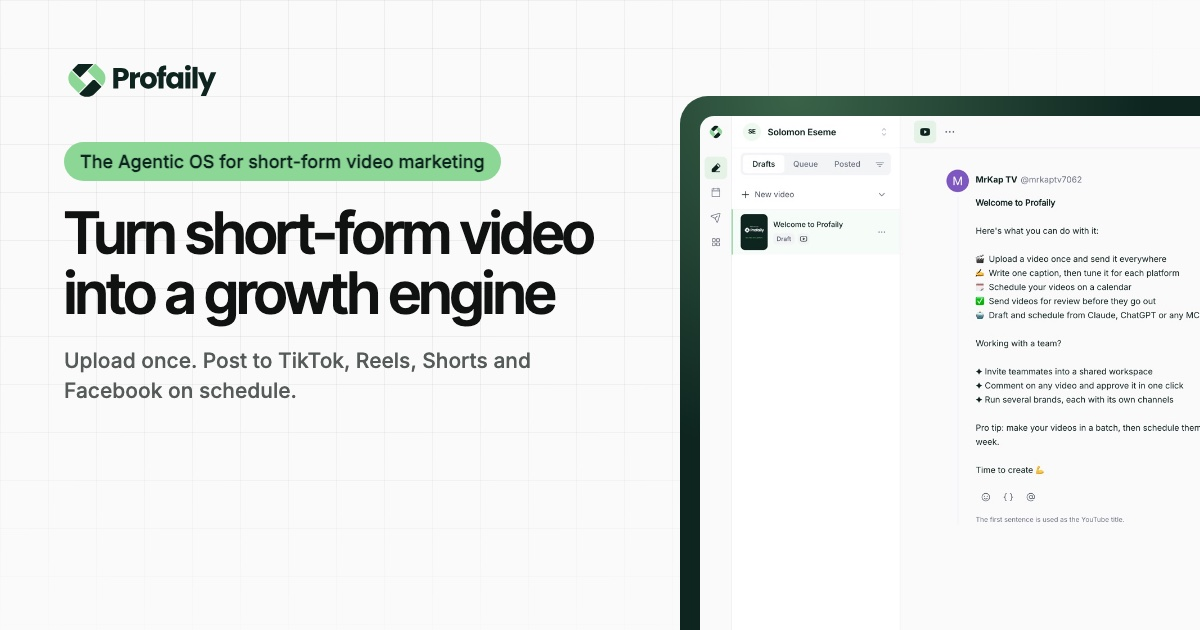
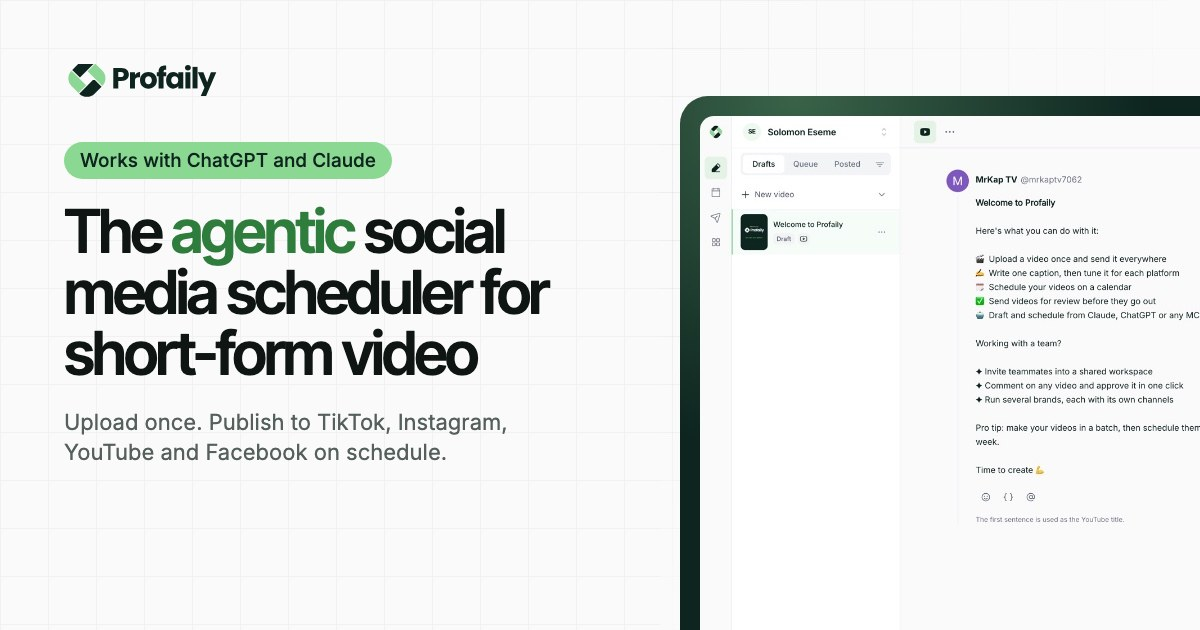
Home: agentic scheduler heading and SEO; help names Facebook
- Home h1 is now "The agentic social media scheduler for short-form video";
  the line under it names platforms (Instagram, TikTok, YouTube, Facebook)
- Home <title>, meta description and share tags carry the new keyword
- og-default.jpg rebuilt with the new heading (same app screenshot)
- Five help lines that listed three platforms now include Facebook
  (sign-in, connect, plans, failed posts, account deletion)

Changed region(s): [[0.0308, 0.3317, 0.4933, 0.6333], [0.0617, 0.6333, 0.4317, 0.754], [0.0617, 0.2111, 0.4317, 0.3016]]

diff --git a/components/sections/home/HomeHero.tsx b/components/sections/home/HomeHero.tsx
@@ -7,12 +7,12 @@ export function HomeHero() {
     <header className="hero has-grid" data-hero>
       <div className="wrap">
         <span className="pill">Works with ChatGPT and Claude</span>
-        <h1>Turn short‑form video into a <span className="hl">growth engine</span> for your business</h1>
+        <h1>The <span className="hl">agentic</span> social media scheduler for short‑form video</h1>
         <p className="sub">
           {liveCopy({
-            both: "The AI-powered, collaborative short-form video scheduling platform for Instagram Reels, TikTok, YouTube Shorts, and Facebook Reels.",
-            instagram: "The AI-powered, collaborative short-form video scheduling platform for TikTok, Instagram Reels and YouTube Shorts.",
-            none: "The AI-powered, collaborative short-form video scheduling platform for TikTok and YouTube Shorts.",
+            both: "The AI-powered, collaborative short-form video scheduling platform for Instagram, TikTok, YouTube, and Facebook.",
+            instagram: "The AI-powered, collaborative short-form video scheduling platform for Instagram, TikTok, and YouTube.",
+            none: "The AI-powered, collaborative short-form video scheduling platform for TikTok and YouTube.",
           })}
         </p>
         <OAuthButtons />

diff --git a/content/home.tsx b/content/home.tsx
@@ -2,9 +2,9 @@ import type { FaqItem } from "@/components/sections/shared/Faq";
 import { liveCopy, channelsReels } from "@/content/channels";
 
 export const homeMeta = {
-  title: "Profaily | Turn short-form video into a growth engine for your business",
+  title: "Profaily | The agentic social media scheduler for short-form video",
   description:
-    `Upload a video once and Profaily posts it to ${channelsReels}, each in its own format, on a schedule. Team approvals, bulk import and AI scheduling from Claude or ChatGPT.`,
+    `The agentic social media scheduler for short-form video. Upload once, publish to ${channelsReels}, or schedule it from ChatGPT or Claude.`,
   path: "/",
 };
 

diff --git a/help/start-free-trial.md b/help/start-free-trial.md
@@ -20,13 +20,13 @@ faq:
 ## Start the trial {#start}
 
 1. Go to [useprofaily.com](/) and tap **Sign up**.
-2. Sign in with Google, TikTok or Instagram.
+2. Sign in with Google, TikTok, Instagram or Facebook.
 3. Choose **Creator** or **Business** and add your card.
 4. Connect your accounts and post your first video.
 
 ![The Profaily sign-in page, with Continue with Google, and TikTok and Instagram buttons](/assets/help/start-free-trial/sign-in.jpg)
 
-Once you're in, Profaily asks you to connect your first account. Tap **Connect** next to TikTok, Instagram or YouTube. You can add the rest later.
+Once you're in, Profaily asks you to connect your first account. Tap **Connect** next to TikTok, Instagram, YouTube or Facebook. You can add the rest later.
 
 ![A new brand's Channels panel, with a Connect button for TikTok, Instagram and YouTube](/assets/help/start-free-trial/connect-first.jpg)
 

diff --git a/help/why-a-post-failed.md b/help/why-a-post-failed.md
@@ -15,7 +15,7 @@ faq:
     a: "Only when the problem needs you, such as a reconnect or a video the platform won't accept. When a platform has a temporary problem, Profaily retries on its own."
 ---
 
-A post fails when TikTok, Instagram or YouTube refuses it. Profaily shows you the platform's own reason, so you know what to change.
+A post fails when TikTok, Instagram, YouTube or Facebook refuses it. Profaily shows you the platform's own reason, so you know what to change.
 
 If you're watching when it happens, the **Publishing** window marks the platform **Failed** while the others carry on:
 

diff --git a/help/delete-your-account.md b/help/delete-your-account.md
@@ -23,7 +23,7 @@ Deleting your account removes everything at once, and it **can't be undone**.
 - Your uploaded videos are deleted from storage.
 - Your account, posts and sign-in are removed.
 
-Videos already posted stay on TikTok, Instagram and YouTube. Delete those on each platform if you want them gone.
+Videos already posted stay on TikTok, Instagram, YouTube and Facebook. Delete those on each platform if you want them gone.
 
 ## Delete it {#delete}
 

diff --git a/help/plans-and-prices.md b/help/plans-and-prices.md
@@ -17,7 +17,7 @@ faq:
     a: "You get 7 days to update your payment method, with everything still working. After that your workspace becomes read-only until the payment goes through."
 ---
 
-Profaily has two plans. Both post to TikTok, Instagram and YouTube, with scheduling and the calendar.
+Profaily has two plans. Both post to TikTok, Instagram, YouTube and Facebook, with scheduling and the calendar.
 
 ## The plans {#plans}
 
